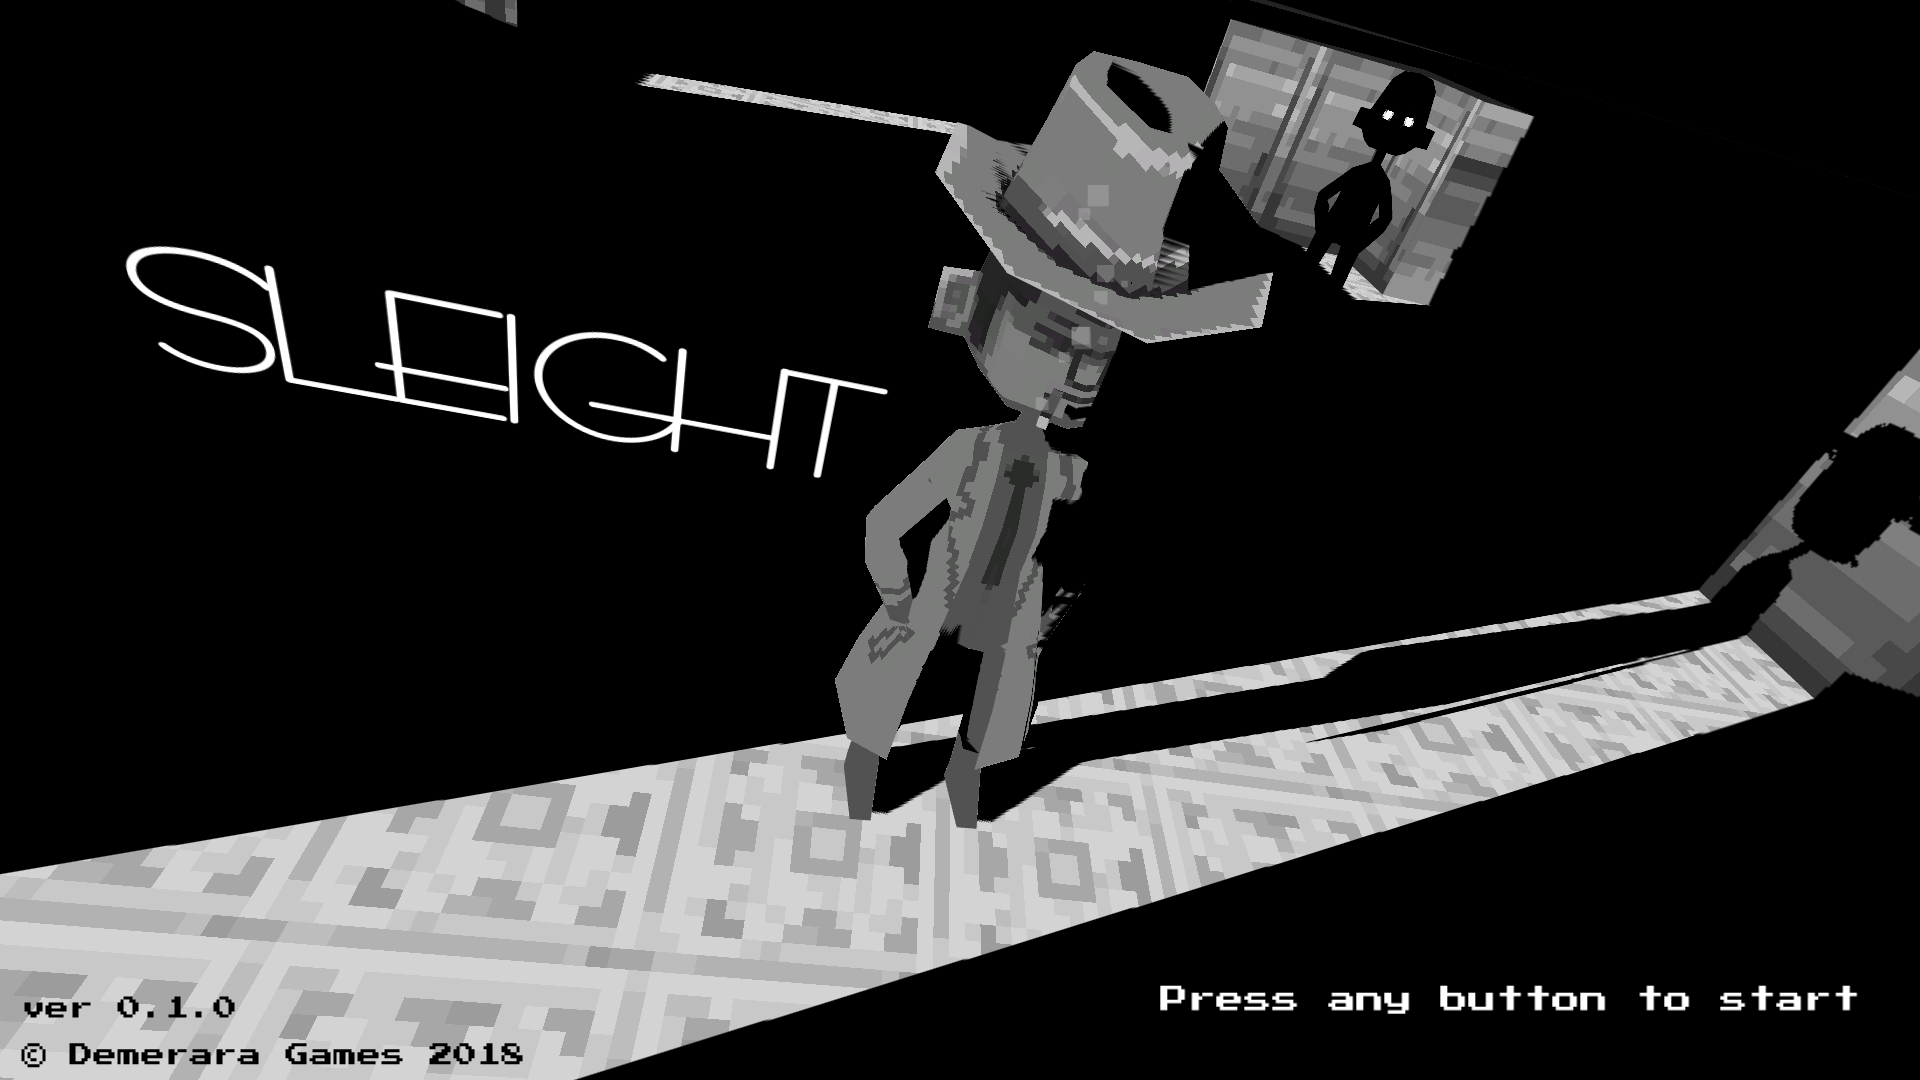
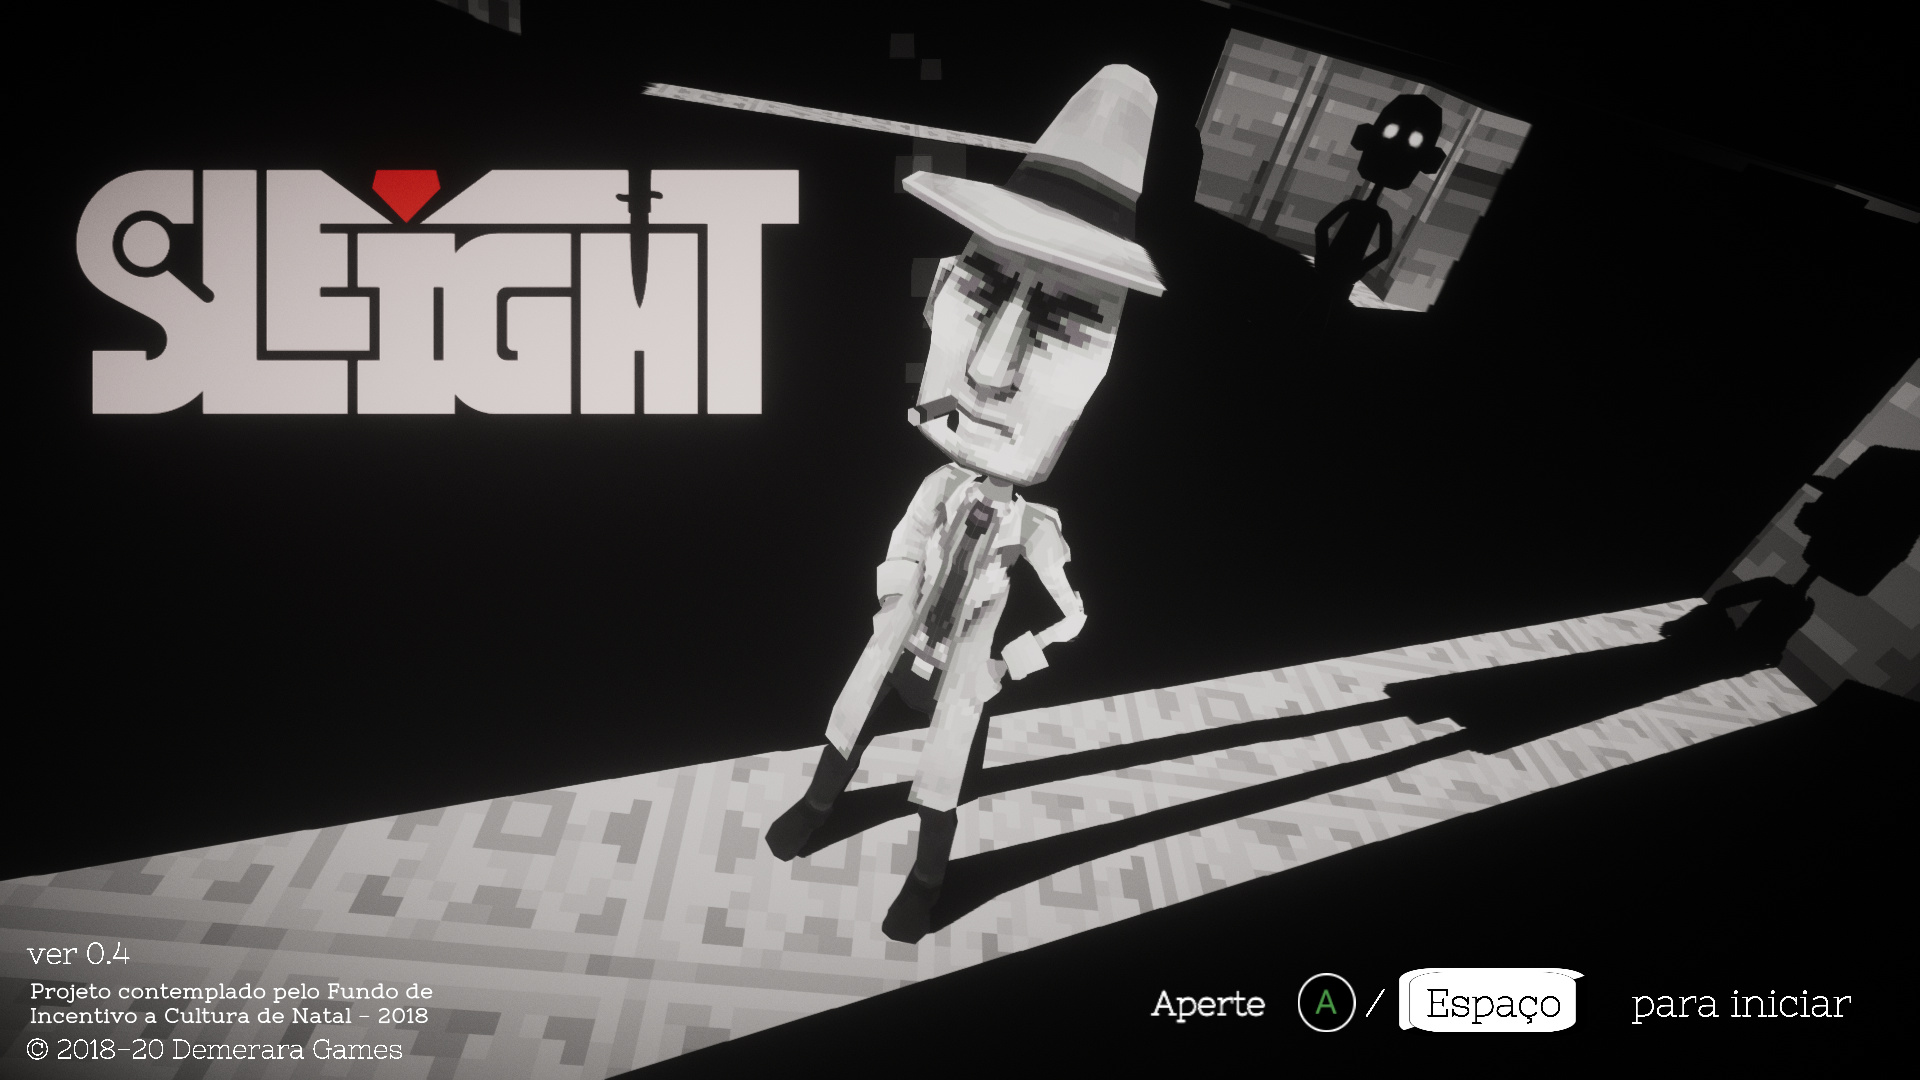
new sleight page
new sleight page

diff --git a/sleight.html b/sleight.html
@@ -76,12 +76,18 @@
 			<div class="meta"><span>Roles: <a href="#">Solo Artist</a>, <a href="#">Game Designer</a></span></div>
 			<p><img src="projects/sleight/image_0.png"></p>
 			<p>SLEIGHT is a couch multiplayer party game within a detective noir setting, where one player tries to steal a precious red jewel, while the other has to stop that from happening. Using various tools in the level, as well as situational awareness and maybe a bit of trickery, the game happens as much on the screen as in between the players minds.</p>
+			<br>
+			<p><img src="projects/sleight/image_1.png"></p>
+			<br>
+			<p>The prototype version was developed during the 2018 edition of Game Jam +, having been selected finalist by the jury. here you can see a trailer for that version:</p>
 			<p><iframe width="560" height="315" src="https://www.youtube.com/embed/qRZE7D04vrY" frameborder="0" allow="accelerometer; autoplay; encrypted-media; gyroscope; picture-in-picture" allowfullscreen></iframe></p>
 			<p>I was the solo artist/tech artist in this game, from concepts to final asset implementation. The game follows a noir visual style for both flair and functionality, as the game relies on misdirection, so a grayscale image provides a better play experience. </p>
 			<p><img src="projects/sleight/image_3.png"></p>
-			<p><img src="projects/sleight/image_2.png"></p>
+			<br>
+			<p>Since the prototype jam version the game went through many iterations and improvements, now containing a single player mode and online multiplayer. the models were redone to better suit a finished product as opposed to the jam version, here you can see the before and after of the detective model:</p>
+			<p><img src="projects/sleight/image_4.png"></p>
 			<p>The game is currently under development for Switch, XBOX, PS4 and PC, and is slated to be released in 2020. The full release will have online play, as well as a single player campaign mode chronicling the rivalry between the detective and the jewel thief. A playable demo is currently available on <a href="https://store.steampowered.com/app/953110">Steam</a>, containing the first multiplayer level in the game.</p>
-			<p><img src="projects/sleight/image_4." alt=""></p>
+			<p><img src="projects/sleight/image_2." alt=""></p>
 			
 		</div>
 
